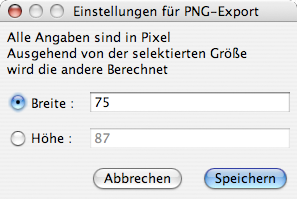
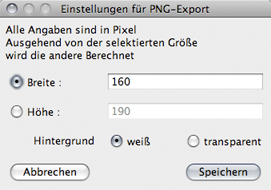
Finished Dialogs and Exports in Gravel Help
Think about how to put in the tutorials,
despite that only mathematical definitions
are missing.

diff --git a/workspace/Gravel/data/help/de/export_tex.html b/workspace/Gravel/data/help/de/export_tex.html
@@ -1,75 +1,43 @@
 <!DOCTYPE html PUBLIC "-//W3C//DTD HTML 4.01 Transitional//EN"
    "http://www.w3.org/TR/html4/loose.dtd">
-
-<html lang="en">
+<html lang="de">
 <head>
 	<meta http-equiv="Content-Type" content="text/html; charset=utf-8">
-	<title>Gravel - Hilfe - Export - LaTeX-<tt><code>picture</code></tt>-Umgebung</title>
+    <link rel="stylesheet" type="text/css" href="format.css" />  
+	<title>Gravel - Hilfe - Export: Portable Network Graphics</title>
 </head>
-<body>
-<div align=center><a name="title"><h2>Export<br>LaTeX-<tt><code>picture</code></tt>-Umgebung</h2></a><br><a name="Abb1"><img src="img/export_tex.png"></a><br><font size="-1">Abbildung 1: Einstellungen des LaTeX-Exports nach Wahl einer Datei</div>
-<br><br>
-<p><a name="abs1">Eine</a> weitere Möglichkeit, den erstellten Graphen zu exportieren, ist der LaTeX-Export.
-Zunächst wird dabei die Größe der entstehenden Grafik festgelegt. Dabei wird wie bei dem <a href="export_png.html">Export als Pixelgrafik</a> das Seitenverhältnis der vom Graphen benötigten Fläche als Grundlage verwendet. Es wird dann entweder die Höhe oder die Breite im Dialog explizit angegeben. Die Angabe ist in Millimetern. <br>
-Eine weitere Option bietet die Möglichkeit, den Graphen entweder eingebettet in ein komplettes (minimal zusammengestelltes) LaTeX-Dokument einzubetten, oder ausschließlich die notwendige <tt><code>figure</code></tt> in der .tex-Datei zu erstellen. Im zweiten Fall kann dann mit Hilfe des <tt><code>\include</code></tt>-Befehls die Grafik direkt in das eigene Dokument eingebunden werden. Dadurch kann auch zu einem späteren Zeitpunkt der Graph neu in die Datei exportiert werden, ohne dass man an dem restlichen Dokument, in dem er integriert ist, weitere Änderungsnotwenigkeiten entstehen.<br>
-Das Programm erstellt eine Vektorgrafik basierend auf der <tt><code>picture</code></tt>-Umgebung von LaTeX und
-deren Erweiterungspakete <tt><code>epic.sty</code></tt><sup>1</sup> und <tt><code>eepic.sty</code></tt><sup>2</sup>, die bis auf die Farbinformationen alle Eigenschaften des Graphen berücksichtigt.
-Diese beiden Pakete müssen entweder der Datei im gleichen Verzeichnis bereitgestellt werden oder dem LaTeX-Compiler bekannt sein. Weitere Pakete sind nicht notwendig.<br>
-<a name="abs2">In der exportierten</a> Datei ist das Bild eingebettet in eine minimale Dokument-Definition, so dass sich die Grafik betrachten lässt.
-Aufgrund interner Befehle der beiden Pakete ist das Kompilieren der Datei nicht mit <tt><code>pdflatex</code></tt> möglich. 
-Stattdessen muss für ein PDF-Dokument zunächst mit dem normalen LaTeX-Compiler ein DVI-Dokument erstellt und dieses über Postskript in ein PDF umgewandelt werden.<br>
-Die meisten LaTeX-Editoren erkennen Pakete, bei denen dieser Weg notwendig ist. Alternativ läßt sich dies auf der Konsole mit diesen 3 Befehlen realisieren:<br><br>
-<pre><code>latex beispiel.tex && dvips beispiel.dvi -o beispiel.ps && ps2pdf beispiel.ps</code></pre><br>
-<a name="abs3">Die Größe</a> eines exportierten Graphen wird durch den direkt vor der <tt><code>picture</code></tt>-Umgebung stehenden Befehl <tt><code>\setlength\{unitlength{Maßeinheit}</code></tt>.
-Dieser gibt an, wie viele Millimeter auf dem Papier einem Punkt (pt) in der Grafik entsprechen. In der Grafik sind alle Maßangaben in pt, bis auf die Schriftgröße. Diese Angaben in pt sind dabei identisch mit den Pixelangaben des Graphen bei einem Maßstab von 100%.<br>
-Durch eine nachträgliche manuelle Änderung der Größe (durch Variation der <tt><code>unitlength</code></tt>) ist das Ergebnis nicht mehr identisch mit dem Original. Der Graph ändert seine Größe, jedoch bleibt die Schrift in ihrer alten Größe erhalten und verschiebt sich somit ebenso relativ zum veränderten Graphen. Stattdessen ist es empfehlenswert, den Graphen in der gewünschten Größe erneut zu exportieren.</p>
-<br><br>
-<b>Aufbau der Grafik</b><br>
-<p>In den Angaben innerhalb der Grafik wird, wie bei dem Export als Pixelgrafik, der ungenutzte Rand herausgerechnet.<br>
-Bei den Koordinatenangaben innerhalb der Grafik ist die vertikale Achse invertiert. Sie beginnt also am unteren Rand mit dem Wert 0 und endet mit der Höhe der Grafik am oberen Rand.</p>
-<p><a name="abs4">Betrachtet</a> man die entstandene Datei, so folgt diese einer festgelegten Struktur:<br>
-Zunächst wird nacheinander jede Kante gezeichnet. Dabei findet ausschließlich der Befehl <tt><code>\path</code></tt> Verwendung.
-Erst wird die Kante in ihrer eigentlichen Form erstellt. Hat die Kante eine Breite, die echt größer als 1 ist, so folgt danach eine mehrfach verschobene Zeichnung der Kante in dickerer Strichstärke. Dies ermöglicht die Darstellung aller Kantendicken. Ohne mehrfaches Zeichnen wären lediglich zwei unterschiedliche Kantenbreiten möglich.<br>
-Abschließend wird der Pfeil gezeichnet.<br>
-Sowohl die Kantenbreite als auch der Pfeil können im Code etwas Platz einnehmen. Bei einer gebogenen Kante etwa wird diese durch kurze gerade Linien angenähert. Der Pfeil benötigt einige Befehle, da kein direkter Befehl zum Ausfüllen eines Bereiches existiert.</p>
-<p><a name="abs5">Dann</a> folgen nacheinander die Knoten.
-Diese werden durch einen Kreis am Knotenmittelpunkt gezeichnet. Der Befehl <tt><code>\put</code></tt> setzt den mit <tt><code>\circle*{groesse}</code></tt> erzeugten gefüllten Punkt an die entsprechende Stelle.<br>
-Dahinter wird mit dem ersten Befehl ebenso der Text platziert. Dieser wird in einer rahmenlosen Box dargestellt und mit <tt><code>\fontsize{5.0mm}{10pt}\selectfont $Knotenname$</code></tt> erzeugt. Die Angabe in Millimetern bestimmt dabei die entsprechende Größe des Textes. Der Knotenname wird in einer mathematischen Umgebung dargestellt.</p>
-<br><br>
-<a name="abs6"><b>Anordnung der Graphen</b></a><br>
-<p>Nach dem Erstellen mehrerer Graphen lassen sich diese in einer Abbildung nebeneinander darstellen, indem man die <tt><code>minipage</code></tt>-Umgebung verwendet. Im folgenden Anwendungsfall werden 2 Graphen nebeneinander platziert.
-In Zeile 5 und Zeile 11 sind die Graphen einzufügen. Diese umfassen die gesamte <tt><code>picture</code></tt>-Umgebung und den direkt davor stehenden Befehl <tt><code>\setlength{\unitlength{Maßeinheit\}</code></tt>.<br>
-Die beim Exportieren gewählte Breite der Graphen ist in den Zeilen 4 und 10 einzutragen. Um zwischen beiden Graphen einen Freiraum zu erhalten, setzt man die beiden Breiten im Quellcode entsprechend größer.
-<br>Die gegebenen <tt><code>\vspace</code></tt>-Befehle ermöglichen eine Einstellung des Abstandes zum Text oberhalb bzw. unterhalb der Abbildung (Zeile 2 bzw. 19). Außerdem sind in Zeile 8 und 14 Untertitel für die einzelnen Graphen möglich.<br>
-<pre><code>
-1 \begin{figure}[htbp]
-2 	\vspace{0pt}% Abstand zum Text darueber
-3 	\centering
-4 	\begin{minipage}{6 cm}
-5 		%
-6 		%Quellcode des ersten Graphen hier einfuegen
-7 		%		
-8 		\centering\mbox{Untertitel Graph 1}
-9 	\end{minipage}
-10 	\begin{minipage}{6 cm}
-11 		%
-12 		%Quellcode des zweiten Graphen hier einfuegen
-13 		%
-14 		\centering\mbox{Untertitel Graph 2}
-15 	\end{minipage}
-16 	\vspace{0pt} %Abstand beider Graphen zur Abbildungsunterschrift
-17 	\caption{Abbildungsunterschrift}
-18 	\label{graphgrouplabel}
-19 	\vspace{0pt} %Abstand Abbildungsschrift zum Text danach
-20 \end{figure}
-</code></pre>
-<br><br>In Abbildung 2 wurden zwei Graphen mit einer Breite von jeweils 60 Millimeter exportiert und in den Quellcode eingefügt.
-Dies lässt sich für mehrere nebeneinander angeordnete Graphen analog fortführen. Die Abbildung ist ein Bild aus einem PDF-Dokument, so dass die Maße in dieser Hilfe nicht korrekt dargestellt werden.<br>  
-<div align=center><a name="Abb2"><img src="img/export_tex_example.png"></a><br><font size="-1">Abbildung 2: Beispiel des Exports zweier Graphen nebeneinander</div>
-<br><br>
-<hr>
-<sup>1</sup> Version 1.2 vom 14 Juli 1986 von Sunil Podar<br>
-<br>
-<sup>2</sup> Version 1.1b vom 7. Februar 1988 von Conrad Kwok<br>
+<h2><a name="title">Export - Portable Network Graphics</a></h2></a>
+<div class="imagebox"><img src="img/export_tex.png"></a><br><font size="-1">Abbildung 1: Einstellungen des LaTeX-Exports nach Wahl einer Datei.</div>
+	<p>Der Export zu LaTeX ist für die Weiterverndung in wissenschaftlichen Ausarbeitungen wichtig. Dabei werden zwei verschiedene Formate bereitgestellt, je nach Anforderungen und Wünschen des Benutzers. Nach Wahl einer Datei gelangt man zu dem Dialog wie in Abbildung 1.</p>
+	
+	Das Programm erstellt eine Vektorgrafik basierend auf der <tt><code>picture</code></tt>-Umgebung von LaTeX und
+	deren Erweiterungspakete <tt><code>epic.sty</code></tt><sup>1</sup> und <tt><code>eepic.sty</code></tt><sup>2</sup>, die bis auf die Farbinformationen alle Eigenschaften des Graphen berücksichtigt.
+	Diese beiden Pakete müssen entweder der Datei im gleichen Verzeichnis bereitgestellt werden oder dem LaTeX-Compiler bekannt sein. Weitere Pakete sind nicht notwendig.<br>
+
+<h3><name="einstellungen">Einstellungen des Exportes</a></h3>
+<p>Zur genaueren Angabe ist zunächst die Originalgröße des Graphen im Editor (bei 100%) nochmals genannt. Dessen Größe für den Export läßt sich nun über einen der drei Parameter
+<ul>
+	<li>Breite</li>
+	<li>Höhe</li>
+	<li>Auflösung</li>
+</ul>
+angeben. Die jeweils verbleibenden beiden werden aus diesem einen Wert ausgerechnet. Breite und Höhe eignen sich gut, wenn man in dem LaTeX-Dokument recht genau weiß, wie viel Platz die Grafik einnehmen soll. Die Auflösung hingegen ermöglicht einen Export mehrerer Grafiken in der gleichen Strichstärke/Textgröße etc., so man bei allen Exporten die gleiche Auflösung einstellt.</p>
+<p>Die darauffolgenden Einstellungen ermöglichen, entweder einen Export als gesamtes Dokument oder nur der <tt>figure</tt>-Umgebung. Das erste eignet sich, um auszuprobieren, wie der Export an sich einmal aussieht. Das Minimaldokument enthält dann alle notwendigen Angaben und kann alleine mit LaTeX kompiliert werden. Die <tt>figure</tt>-Umgebung eignet sich gut zum Einbinden in andere Dokumente. Dazu verwendet man den <tt>\input</tt>-Befehl von LaTeX. So kann mit der Zeit die Abbildung erneut erzeugt/exportiert werden, ohne dass man das LaTeX-Dokument erneut zusammen kopieren muss. Die <tt>figure</tt>-Umgebung enthält dabei auch bereits eine Bildunterschrift.</p>
+<p>Die Angabe der Export-Art wird in den folgenden beiden Abschnitten beschrieben. Zunächst der Export in ein TeX-picture, dann derjenige nach TikZ.
+<h3>Details zur <tt>picture-</tt>Umgebung</h3>
+<p>Die Pakete <tt>epic.sty</tt><sup>1</sup> und <tt>eepic.sty</tt><sup>2</sup> ermöglichen es, in der <tt>picture</tt>-Umgebug von LaTeX Vektordarstellungen zu erzeugen. Über diese Variante ist der Export organisiert. Zum Kompilieren benötigt man dann entweder <tt>latex</tt> oder das neuere <tt>pdflatex</tt>, das jedoch im dvi-Modus. Das bedeutet, dass einige neuere Pakete nicht mehr funktionieren. Außerdem sind in diesem Export keine Farben möglich, so dass diese ignoriert werden.</p>
+<p>Die Beschriftungen werden skaliert, so dass sie annähernd denen in Gravel entsprechen. Leichte Unterschiede sind vorhanden, da sich die Schriftarten (von LateX gegenüber der Java Graphcis-Darstellung) unterscheiden. Ein nachträgliches Skalieren der Grafik durch eine Veränderung des zu begin stehenden Befehls <tt>\setlength{\unithlength}{...}</tt> ist eine Möglichkeit, im Nachhinein die Größe der Grafik zu verändern, die Schriften skalieren jedoch nicht mit.</p>
+
+<h3><a name="tikz">Details zum Export in eine TikZ-Grafik</a></h3>
+<p>Der Export in eine Grafik basierend auf dem Paket TikZ<sup>3</sup> bietet zwei wesentliche Vorteile: Es kann sowohl <tt>pdflatex</tt> als auch <tt>latex</tt> (bzw. <tt>pdflatex</tt> im dvi-modus) zum kompilieren genutzt werden und der TikZ-Export unterstützt Farben. Die Beschriftungen werden nicht mit skaliert, sondern an die normale Textgröße im Dokument angepasst. Das bietet den Vorteil, dass ein einheitlicheres Schriftbild im Dokument vorherrscht. Nachteil ist hingegen, dass dadurch der Unterschied zur Darstellung im Editor recht groß sein kann.</p>
+<p>Die Farben der Untergraphen, aus denen die Farben der Knoten und Kanten bzw. Hyperkanten erzeugt werden, sind zu beginn des Dokumentes definiert. So kann auch im Nachhinein an diesen Farben eine Veränderung vorgenommen werden. In der Grafik selbst werden die Farben dann für die einzelnen Knoten „zusammengemischt“. Ebenso sind die Linienstile recht einfach in den Elementen erzeugt. Da die Elemente des Graphen in diesem Export ausführlich kommentiert erzeugt werden, ist also auch hier eine nachträgliche Änderung möglich.</p>
+<p>Ein nachträgliches Skalieren der Grafik ist möglich, indem hinter <tt>\begin{tikzpicture}</tt> ein Skalierungsfaktor angegeben wird, etwa <tt>\begin{tikzpicture}[scale=0.5]</tt>, um die Grafik in ihrer Größe zu halbieren.
+<div class="notes">
+	<sup>1</sup> Version 1.2 vom 14 Juli 1986 von Sunil Podar<br>
+	<br>
+	<sup>2</sup> Version 1.1b vom 7. Februar 1988 von Conrad Kwok<br>
+	<br>
+	<sup>3</sup> Version 2.0 vom 13. Februar 2008 von Till Tantau<br>
+</div>
 </body>
 </html>

diff --git a/workspace/Gravel/data/help/de/dialog_shape.html b/workspace/Gravel/data/help/de/dialog_shape.html
@@ -8,7 +8,49 @@
 </head>
 <body>
 <h2>Dialog: Der Umriss einer Hyperkante</h2>
-<a name="prrof">Überprüfen</a>
-<a name="convexhull">konvexe Hülle</a>.
+<p>Der Umriss einer Hyperkante wird in zwei Schritten erzeugt: Zunächst wird eine Grundform erstell, die dann modifiziert werden kann. Wird der Dialog für den Umriss mit einer Hyperkante aufgerufen, die bereits einen Umriss hat, so beginnt gleich die Modifikation.</p>
+<p>Beide Modi haben drei gemeinsame Buttons: <a name="proof">„Prüfen“</a> zur Validierung des Umrisses sowie „Abrechen“ und „Ok“ zum Verwerfen bzw. Übernehmen des aktuellen Umrisses. Zum übernehmen muss ein nichtleerer Umriss existieren. In der Darstellung werden alle bisherigen Hyperkantenumrisse sowie alle nicht zur aktuellen Hyperkante gehörenden Knoten kaum sichtbar gezeichnet, außer, wenn Knoten nach dem Prüfen im Umriss liegen. Anstelle der Liste auf der rechten Seite werden Parameter eingeblendet.</p>
+
+<h3>Erzeugen eines Umrisses</h3>
+<div class="imagebox"><a name="Abb1"></a><img src="img/dialog_shape_creation.png"><br><font size="-1">Abbildung 1: Erzeugen eines Umrisses<br>Hier mit der Grundform des Kreises</font></div>
+<p>Das Erzeugen eines Umrisses ist der erste Schritt zu einem Umriss. Dieser Modus wird auch verwendet, wenn ein Teil des Umrisses ersetzt werden soll, dann steht allerdings lediglich die Interpolation zur Verfügung und deren Grad ist durch den bisherigen Umriss gegeben. Für die drei Grundformen gibt es jeweils verschiedene Parameter, um die Erzeugung zu beeinflussen: 
+<dl>
+	<dt>Kreis</dt><dd>Hierbei wird der Polynomgrad auf 4 festgelegt. Dann kann durch Angabe eines Mittelpunktes und eines Radius der Kreis angegeben werden. Alternativ kann er auch mit der Maus aufgezogen werden, die Felder auf der rechten Seite werden dann mit den entsprechenden Werten gefüllt.</dd>
+	<dt>Interpolation</dt><dd>Neben dem Polynomgrad kann noch spezifiziert werden, wo neu erzeugte Punkte im Vektor der Interpolationspunkte eingefügt werden sollen, am Ende oder zwischen den zwei aufeinanderfolgenden Interpolationspunkten, bei denen der neue Punkt am nächsten an der Verbindungsstrecke dran liegt. Jeder linke Mausklick fügt einen neuen Punkt ein, ein Rechtsklick auf einen Punkt entfernt diesen.</dd>
+	<dt><a name="convex hull">konvexe Hülle</a></dt><dd>Hier ist lediglich der Polynomgrad notwendig, basierend auf den Knotenpositionen, dem Innenabstand und diesem Grad wird dann der Umriss berechnet.</dd>
+</dl>
+</p>
+<p>Mit dem Button „Modifikation“ gelangt man in den zweiten Modus zur Modifikation des erstellten Umrisses.</p>
+
+<h3>Modifizieren eines Umrisses</h3>
+<div class="imagebox"><a name="Abb2"></a><img src="img/dialog_shape_modification.png"><br><font size="-1">Abbildung 2: Modifikation eines Umrisses<br>Hier wurde der erzeugte kreis zu einer Ellipse verformt.</font></div>
+<p>Da es in diesem Modus sehr viele Buttons gibt, schauen wir uns die einmal kurz alle einzeln an:
+<dl>
+	<dt>global und lokal </dt><dd> Mit diesem Optionsfeld wechselt man zwischen dem globalen und dem lokalen Bearbeitungsmodus. Im globalen Modus werden die Aktionen auf den gesamten Umriss angewandt. Im lokalen Modus muss zunächst ein Bereich des Umrisses gewählt werden, alle Modifikationen wirken dann nur auf diesem Bereich.</dd>
+	<dt>+</dt><dd> Dieser Button ist nur im globalen Modus verfügbar. Er schaltet die Anzeige des Knotenvektors an; es werden dann die Positionen auf der Kurve angezeigt, an denen die Knoten auf der Kurve liegen. Durch anklicken der Kurve wird an der Stelle ein Knoten eingefügt.</dd>
+	<dt>-</dt><dd> Analog zum „+“-Button wird hier der Modus zum Entfernen von Knoten aktiviert. Kann ein Knoten nicht entfernt werden, passiert nichts, andernfalls wird er entfernt. Dabei kann sich die Kurve (unter Umständen sogar stark) verändern. Man kann jedoch jede Aktion stets rückgängig machen.</dd>
+</dl>
+</p>
+<p>Jede der folgenden Aktionen verläuft durch Ziehen, wobei der Ursprungspunkt $p$ des Ziehens und der Richtungsvektor $v$ vom Ursprung zur aktuellen Mausposition jeweils in der Berechnung verwendet werden:
+<dl>
+	<dt><img src="img/icons/rotate32.png" class="icon"></dt><dd class="icon"> Rotiert den Umriss (bzw. den lokalen Bereich) um den Punkt $p$ und zwar um den Winkel, der zwischen der positiven $X-$Achse im Uhrzeigersinn zur Richtung $v$ vorliegt. $v$ wird dabei auch eingezeichnet, um dies zu verdeutlichen.</dd>
+	<dt><img src="img/icons/scale32.png" class="icon"></dt><dd class="icon">Skalieren der Kurve (bzw. des lokalen Bereichs) mit dem Fixpunkt $p$. Die Skalierung ergibt sich aus dem Verhältnis von $v$ zur Größe der ursprünglichen Kurve. Ist also $v$ nahe der Kurve, ergibt sich etwa ein Faktor von $1$. Die Richtung wird dabei ignoriert.</dd>
+	<dt><img src="img/icons/scaledir32.png" class="icon"></dt><dd class="icon">Skalieren mit Richtung. Verläuft analog zur Skalierung (dem vorherigen Icon), nur dass lediglich in Richtung $v$ skaliert wird. Die Richtung orthogonal zu $v$ bleibt unverändert. So können beispielsweise aus Kreisen Ellipsen geformt werden.</dd>
+	<dt><img src="img/icons/translate32.png" class="icon"></dt><dd class="icon">Verschieben. Der Umriss (bzw. der lokale Bereich) wird um $v$ verschoben.</dd>
+</dl></p>
+<p>Ist keiner dieser Modi aktiv, so kann die Kurve verändert werden, indem direkt auf der Kurve mit dem Ziehen begonnen wird, dann wird dieser Punkt an die aktuelle Mausposition verschoben. Aufgrund der lokalen Eigenschaften der NURBS"=Kurven hat dies ebenfalls nur lokalen Einfluss. Im lokalen Modus gibt es drei weitere Icons, die zur Auswahl der Teilkurve dienen: 
+<dl>
+<dt><img src="img/icons/start32.png" class="icon"></dt><dd class="icon"> Setzen des Startpunktes der lokalen Bereichs. Start- und Ende sind nicht direkt unterscheidbar, die Darstellung auf den Icons entspricht folgender Situation:
+	<p>
+Ist die Kurve im Uhrzeigersinn definiert -- also bei der Interpolation die Reihenfolge der Knoten im Uhrzeigersinn gegeben worden, sonst ist das stets der Fall -- so verläuft die Auswahl ebenso im Uhrzeigersinn. Dann entspricht die Darstellung auf dem Startpunkt-Icon der Situation, dass der Startpunkt auf einer horizontalen Linie der oberen Umrisshälfte liegt.</p>
+Jeder Mausklick wird dabei auf die Kurve projiziert und dieser Punkt als neuer Startpunkt verwendet.</dd>
+<dt><img src="img/icons/invert32.png" class="icon"></dt><dd class="icon">Invertieren. Die Punkte Start und Ende werden vertauscht, was in der Auswahl genau des Kurvenanteils resultiert, der vorher nicht der lokale Bereich war.</dd>
+<dt><img src="img/icons/end32.png" class="icon"></dt><dd class="icon">Setzen des Endpunktes. Analog zu den Ausführungen des Startpunktes, nur bezeichnet dies dann das andere Ende des Teilstücks.</dd>
+</dl>
+Ist hier keiner der Modi aktiv, so wird im lokalen Modus bei jedem Klick bzw. Ziehen abwechselnd Start und Ende der Kurve gesetzt. Der Button „neue Grundform“ erstellt eine neue Grundform wie folgt:
+<dl>
+	<dt>im globalen Fall</dt><dd>gelangt man zu dem zurück, was bereits vorgestellt worden ist: Der Erzeugung einer kompletten neuen Grundform.</dd>
+	<dt>im lokalen Fall</dt><dd>wird eine neue Grundform des lokalen Bereichs erzeugt, so dieser existiert und groß genug ist (man benötigt einen gewissen zu ersetzenden Teil). Die Interpolationspunkte definieren dann eine Kurve, die den lokalen Bereich ersetzt und an den Übergängen (Start- und Endpunkt des lokalen Bereichs) wieder stetig ist. Dabei ist der Grad der Kurve bereits gegeben.</dd>
+</dl>
 </body>
 </html>

diff --git a/workspace/Gravel/data/help/de/dialog_node.html b/workspace/Gravel/data/help/de/dialog_node.html
@@ -1,29 +1,26 @@
 <!DOCTYPE html PUBLIC "-//W3C//DTD HTML 4.01 Transitional//EN"
    "http://www.w3.org/TR/html4/loose.dtd">
-
-<html lang="en">
+<html lang="de">
 <head>
 	<meta http-equiv="Content-Type" content="text/html; charset=utf-8">
-	<title>Gravel - Hilfe - Dialoge - Knoten</title>
+    <link rel="stylesheet" type="text/css" href="format.css" />  
+	<title>Gravel - Hilfe - Dialog - Knoten</title>
 </head>
 <body>
-<div align=center><a name="title"><h2>Knotendialog</h2></a></div>
-<br><p>Der Knotendialog ist entweder über das Kontextmenü eines Knotens erreichbar oder über den Eintrag "Neuen Knoten erstellen..." im Kontextmenü des Hintergrundes.<br>
+<h2><a name="title">Dialog: Eigenschaften eines Knotens</a></h2>
+<p>Der Knotendialog ist entweder über das Kontextmenü eines Knotens erreichbar oder über den Eintrag "Neuen Knoten erstellen..." im Kontextmenü des Hintergrundes.<br>
 Im ersten Fall werden die Datenfelder des Dialoges mit den Werten des Knotens initialisiert.
-Beim Erstellen eines neuen Knotens werden die Datenfelder mit den Standard-Werten aus den <a href="dialog_prefs.html">Eigenschaften</a> initialisiert. Als Position wird die aktuelle Position der Maus in dem Graphen verwendet. Als Index wird die erste natürliche Zahl nach dem größten Knotenindex im aktuellen Graphen verwendet.	
-<br><br>
+Beim Erstellen eines neuen Knotens werden die Datenfelder mit den Standard-Werten aus den <a href="dialog_prefs.html">Eigenschaften</a> initialisiert. Als Position wird die aktuelle Position der Maus in dem Graphen verwendet. Als Index wird die erste natürliche Zahl nach dem größten Knotenindex im aktuellen Graphen verwendet.</p>
 <h3>Allgemein</h3>
-<div align=center><br><a name="Abb1"><img src="img/dialog_node_general.png"></a><br><font size="-1">Abbildung 1: Die Registerkarte "Allgemein" des Knotendialogs</font></div>
-<br><p>In der Registerkarte "Allgemein" lassen sich die mathematischen und visuellen Eigenschaften des Knotens verändern.<br>
+<div class="imagebox"><a name="Abb1"><img src="img/dialog_node_general.png"></a><br><font size="-1">Abbildung 1: Die Registerkarte „Allgemein“ des Knotendialogs</font></div>
+<p>In der Registerkarte „Allgemein“ lassen sich die mathematischen und visuellen Eigenschaften des Knotens verändern.<br>
 <a name="math">Zunächst</a> der Name, gefolgt vom Index des Knotens und der Position (in horizontale (X) und vertikale (Y) Komponente getrennt) sowie die Größe des Kreises, den der Knoten in der Darstellung besitzen soll.
 <br>Die <a name="farbe">Farbe</a> des Knotens ergibt sich aus der Zugehörigkeit zu Untergraphen. Eine Liste der Untergraphen befindet sich am unteren Ende dieser Registerkarte und jeder Untergraph ist in dieser Liste klickbar, wodurch der Knoten entweder hinzugefügt oder entfernt wird, je nach vorherigem Zustand. Dann wird die Farbe neu berechnet.</p> 
-<br><br>
 <h3>Ansicht</h3><br>
-<div align=center><a name="Abb2"><img src="img/dialog_node_view.png"></a><br><font size="-1">Abbildung 2: Die Registerkarte "Ansicht" des Knotendialogs</font></div>
+<div class="imagebox"><a name="Abb2"><img src="img/dialog_node_view.png"></a><br><font size="-1">Abbildung 2: Die Registerkarte „Ansicht“ des Knotendialogs</font></div>
 <br>
-<p><a name="name">Unter</a> "Ansicht" sind die Einstellungen des Knotennamens verfügbar. Dieser läßt sich anzeigen oder nicht. Im zweiten Fall sind die Felder darunter deaktiviert.<br>
+<p><a name="name">Unter</a> „Ansicht“ sind die Einstellungen des Knotennamens verfügbar. Dieser läßt sich anzeigen oder nicht. Im zweiten Fall sind die Felder darunter deaktiviert.<br>
  Ist die Anzeige des Knotennamens aktiviert, so wird seine Position angegeben durch den Abstand von der Position des Knotens und dem Winkel in Grad, wobei 0 Grad der Richtung Osten entspricht. Die Größe des Textes ist ebenso einstellbar.</p>
-<br><br>
 <h3>Validitätsbedingungen</h3>
 <p>Ein Klick auf Abbrechen bricht die aktuelle Aktion ab und der Knoten wird nicht gespeichert.
 <br>Wählt man den Button "Änderungen speichern" bzw. "Knoten erstellen", so darf der gewählte Index noch nicht vergeben sein.<br>Ist die Anzeige des Knotennamens aktiv, so müssen alle 3 Felder in der Registerkarte "Ansicht" mit natürlichen ganzen zahlen gefüllt sein. Dann wird die Aktion abgeschlossen, also der Knoten verändert oder erstellt. Andernfalls erscheint eine Fehlermeldung.</p>  

diff --git a/workspace/Gravel/data/help/de/dialog_subgraph.html b/workspace/Gravel/data/help/de/dialog_subgraph.html
@@ -1,26 +1,20 @@
 <!DOCTYPE html PUBLIC "-//W3C//DTD HTML 4.01 Transitional//EN"
    "http://www.w3.org/TR/html4/loose.dtd">
-
-<html lang="en">
+<html lang="de">
 <head>
 	<meta http-equiv="Content-Type" content="text/html; charset=utf-8">
-	<title>Gravel - Hilfe - Dialoge - Untergraphen</title>
-	<meta name="generator" content="TextMate http://macromates.com/">
-	<meta name="author" content="Ronny">
-	<!-- Date: 2007-10-12 -->
+    <link rel="stylesheet" type="text/css" href="format.css" />  
+	<title>Gravel - Hilfe - Dialog - Untergraph</title>
 </head>
 <body>
-<div align=center><a name=title><h2>Untergraphendialog</h2></a><br>
-<br><a name="Abb1"><img src="img/dialog_subgraph.png"></a><br><font size="-1">Abbildung 1: Erstellen eines Untergraphen</font>
+<h2><a name="title">Dialog: Eigenschaften eines Untergraphen</a></h2>
+<div class="imagebox"><a name="Abb1"><img src="img/dialog_subgraph.png"></a><br><font size="-1">Abbildung 1: Erstellen eines Untergraphen</font>
 </div>
-<br><p><a name="abs1">Der</a> Dialog für einen Untergraphen ist entweder im Kontextmenü des Hintergrundes unter "Neuen Untergraphen" oder in der Liste der Elemente bei den Untergraphen verfügbar. In Abbildung 1 wurde die erste Variante gewählt. Die Eigenschaften eines Untergraphen werden in die Felder eingesetzt, wenn dieser in der Liste gewählt wird.<br>
-Beim Erstellen eines neuen Untergraphen wird ein freier Index gewählt, der Name generiert und eine zufällige, noch nicht vergebene Farbe bei der Initialisierung gewählt.<br>
-Unter diesen Feldern befinden sich zwei Liste. Eine Liste enthält alle Knoten, jeweils aufgelistet mit Name und Index, die andere Liste enthält alle Kanten, die jeweils durch Start- und Endknotenindex dargestellt sind. Diese lassen sich durch anklicken zu einem Untergraphen hinzufügen und entfernen. Die Farbe des Untergraphen wird dann in die Farbe der Kanten und Knoten eingerechnet, die in dem Untergraphen enthalten sind.
-<br><br>
+<p><a name="abs1">Der</a> Dialog für einen Untergraphen ist entweder im Kontextmenü des Hintergrundes unter "Neuen Untergraphen" oder in der Liste der Elemente bei den Untergraphen verfügbar. In Abbildung 1 wurde die erste Variante gewählt. Die Eigenschaften eines Untergraphen werden in die Felder eingesetzt, wenn dieser in der Liste gewählt wird.</p>
+<p>Beim Erstellen eines neuen Untergraphen wird ein freier Index gewählt, der Name generiert und eine zufällige, noch nicht vergebene Farbe bei der Initialisierung gewählt.</p>
+<p>Unter diesen Feldern befinden sich zwei Liste. Eine Liste enthält alle Knoten, jeweils aufgelistet mit Name und Index, die andere Liste enthält alle Kanten, die jeweils durch Start- und Endknotenindex dargestellt sind. Diese lassen sich durch anklicken zu einem Untergraphen hinzufügen und entfernen. Die Farbe des Untergraphen wird dann in die Farbe der Kanten und Knoten eingerechnet, die in dem Untergraphen enthalten sind.</p>
 <h3>Validitätsbedingungen</h3>
-<br>
-<p>Beim Bestätigen des Dialoges (je nach Art des Dialoges "Untergraph erstellen" oder "Änderungen speichern") wird der Untergraph gespeichert, falls folgende Bedingungen erfüllt sind:<br>
-	Der Index darf noch keinem anderen Untergraphen zugeordnet sein, ebenso darf die Farbe noch nicht bei einem anderen Untergraphen verwendet worden sein. Ist dies beides der Fall, wird der Untergraph gespeichert und die Farben der Knoten und Kanten die neu oder nun nicht mehr im Untergraphen sind, werden neu berechnet.</p>
-<br>
+<p>Beim Bestätigen des Dialoges (je nach Art des Dialoges "Untergraph erstellen" oder "Änderungen speichern") wird der Untergraph gespeichert, falls folgende Bedingungen erfüllt sind:</p>
+<p>Der Index darf noch keinem anderen Untergraphen zugeordnet sein, ebenso darf die Farbe noch nicht bei einem anderen Untergraphen verwendet worden sein. Ist dies beides der Fall, wird der Untergraph gespeichert und die Farben der Knoten und Kanten die neu oder nun nicht mehr im Untergraphen sind, werden neu berechnet.</p>
 </body>
 </html>

diff --git a/workspace/Gravel/data/help/de/export_png.html b/workspace/Gravel/data/help/de/export_png.html
@@ -1,20 +1,15 @@
 <!DOCTYPE html PUBLIC "-//W3C//DTD HTML 4.01 Transitional//EN"
    "http://www.w3.org/TR/html4/loose.dtd">
-
-<html lang="en">
+<html lang="de">
 <head>
 	<meta http-equiv="Content-Type" content="text/html; charset=utf-8">
-	<title>Gravel - Hilfe - Export - Portable Network Graphics</title>
-	<meta name="generator" content="TextMate http://macromates.com/">
-	<meta name="author" content="Ronny">
-	<!-- Date: 2007-10-12 -->
+    <link rel="stylesheet" type="text/css" href="format.css" />  
+	<title>Gravel - Hilfe - Export: Portable Network Graphics</title>
 </head>
-<body>
-<div align=center><a name="title"><h2>Export<br>Portable Network Graphics</h2></a><br><a name="Abb1"><img src="img/export_png.png"></a><br><font size="-1">Abbildung 1: Einstellungen des PNG-Exports nach Wahl einer Datei</div>
-<p>Als Export in eine Pixelgrafik bietet Gravel den PNG-Export. Dabei wird eine Grafik im Format <i>Portable Network Graphics</i> erstellt. Dies wird durch Java-interne Bibliotheken ermöglicht. Das Format ist verlustfrei.<br>
-	Nach Wahl einer Datei im Export-Dialog erscheint ein weiteres Fenster (Abbildung 1). Hier lässt sich entweder eine Breite oder eine Höhe des Bildes angeben. Die Angabe ist in Pixel. Der nicht direkt angegebene Wert wird dann durch das Seitenverhältnis des Graphen bestimmt. Für das Seitenverhältnis werden die ungenutzten Ränder der Darstellung entfernt. Es wird lediglich die Fläche verwendet, die der Graph auch wirklich benötigt. Bei der Berechnung werden neben Kanten und Knoten auch Knotennamen und Kontrollpunkte berücksichtigt.<br>
-	Ist die Größe festgelegt, wird der Graph als Bild exportiert. Dabei werden alle Farben bedacht. Die Einstellungen der aktuellen Anzeige werden berücksichtig; Raster und Kontrollpunkte werden ebenfalls exportiert, so diese aktiviert sind. Außerdem ist wie in der Anzeige eine Kantenglättung aktiv, das heißt, dass die Ränder der gezeichneten Objekte geglättet werden. Der Hintergrund wird auf transparent gesetzt.</p>
-<p>Einsatzbereich dieses Exportes sind alle Weiterverwendungen außerhalb von Gravel und <a href="export_tex.htm">LaTeX</a></p>
-
+<h2><a name="title">Export - Portable Network Graphics</a></h2></a>
+<div class="imagebox"><a name="Abb1"><img src="img/export_png.png"></a><br><font size="-1">Abbildung 1: Einstellungen des PNG-Exports nach Wahl einer Datei.</div>
+<p>Als Export in eine Pixelgrafik bietet Gravel den PNG-Export. Dabei wird eine Grafik im Format <i>Portable Network Graphics</i> erstellt. Dies wird durch Java-interne Bibliotheken ermöglicht. Das Format ist verlustfrei.</p>
+<p>Nach Wahl einer Datei im Export-Dialog erscheint ein weiteres Fenster (Abbildung 1). Hier lässt sich entweder eine Breite oder eine Höhe des Bildes angeben. Die Angabe ist in Pixel. Der nicht direkt angegebene Wert wird dann durch das Seitenverhältnis des Graphen bestimmt. Für dieses Seitenverhältnis werden die ungenutzten Ränder der Darstellung entfernt. Es wird lediglich die Fläche verwendet, die der Graph auch wirklich benötigt. Bei der Berechnung werden neben Kanten und Knoten auch Knotennamen und Kontrollpunkte berücksichtigt. Außerdem kann angegeben werden, ob das erzeugte Bild einen weißen oder einen transparenten Hintergrund besitzen soll.</p>
+<p>Ist die Größe festgelegt, wird der Graph als Bild exportiert. Dabei werden alle Farben bedacht. Die Einstellungen der aktuellen Anzeige werden berücksichtig; Raster und Kontrollpunkte werden ebenfalls exportiert, so diese aktiviert sind. Außerdem ist wie in der Anzeige eine Kantenglättung aktiv, das heißt, dass die Ränder der gezeichneten Objekte geglättet werden.</p>
 </body>
 </html>

diff --git a/workspace/Gravel/data/help/de/dialog_prefs.html b/workspace/Gravel/data/help/de/dialog_prefs.html
@@ -26,9 +26,9 @@
 <p>In der Ansicht lässt sich die Ansicht der Kontrollpunkte aktivieren, die bei zwei Kantentypen existieren. Dies ist ebenso über das <a href="menu.html">Menü</a> möglich. Hier gibt es zusätzlich die Möglichkeit, die Größe der Kreuze anzugeben, welche an den Positionen der Kontrollpunkte angezeigt werden. Diese Kontrollpunkte werden im <a href="dialog_shape.html">Dialog zur des Hypekantenumrisses</a> auch zur Anzeige des Kontrollpolygons verwendet.</p>
 <p>Ebenso über das <a href="menu.html">Menü</a> einzeln verfügbar sind die Einstellungen zum Raster. Ist das Raster aktiviert, so lässt sich der vertikale und horizontale Abstand des Rasters festlegen. Die beiden Abstände lassen sich synchronisieren. Außerdem können Knoten am Raster ausgerichtet werden. Dies wirkt sich auf die Bewegung von einzelnen Knoten im Standard-Modus aus. Werden diese bewegt, so werden sie danach am Raster ausgerichtet.<br>Ist das Raster nicht aktiviert, so sind die Einstellungen dazu ebenso deaktiviert und bleiben in dem Zustand, den sie zuletzt besaßen.</p>  
 
-<a name="subgraph"><h3>Graph (und Untergraph)</h3></a>
+<a name="subgraph"><h3>(Hyper-)Graph und Untergraph</h3></a>
 <div class="imagebox"><a name="Abb3"><img src="img/dialog_prefs_graph.png"></a><br><font size="-1">Abbildung 3: Registerkarte „Graph“ der Allgemeinen Einstellungen</font></div>
-<p>Für (Hyper-)graphen lässt sich angeben, welches der Standard sein soll für neue Graphen. Dies bedeutet, dass beim Start ein leerer Graph bzw. Hypergraph mit den dort angegebenen Werten erstellt wird. Bei Start eines Neuen Graphen im Lauf des Programms ist eine Abfrage vorhanden, ob ein Graph oder Hypergraph erstellt werden soll, die Voreinstellung wird dabei ebenso von dieser Einstellung abhängig gemacht. Für Graphen lassen sich die Standardwerte festlegen: Geichtet oder ungerichtet, Zulassen von Schleifen und/oder Mehrfachkanten.</p>
+<p>Für (Hyper-)graphen lässt sich angeben, welcher der beiden Typen der Standard ist. Dieser wird verwendet beim Start des Programms mit einem leeren Graphen bzw. Hypergrapen. Zusätzlich bildet er die Standardauswahl im Dialog zu einem neuen (Hyper-)Graphen. Für Graphen lassen sich weitere Standardwerte festlegen: Gerichtet oder ungerichtet, Zulassen von Schleifen und/oder Mehrfachkanten.</p>
 <p>Untergraphen sind nur bezüglich ihres Namens in den Standardwerten vertreten. Dessen angegebener Wert wird analog zu dem <a href="#nodename">Knotennamen</a> verwendet.</p>
 <a name="node"><h3>Knoten</h3></a>
 <div align=center><a name="Abb4"><img src="img/dialog_prefs_node.png"></a><br><font size="-1">Abbildung 4: Die Registerkarte "Knoten" der Einstellungen enthält Standardwerte für Knoten</font></div>

diff --git a/workspace/Gravel/data/help/de/export.html b/workspace/Gravel/data/help/de/export.html
@@ -1,18 +1,18 @@
 <!DOCTYPE html PUBLIC "-//W3C//DTD HTML 4.01 Transitional//EN"
    "http://www.w3.org/TR/html4/loose.dtd">
-
-<html lang="en">
+<html lang="de">
 <head>
 	<meta http-equiv="Content-Type" content="text/html; charset=utf-8">
+    <link rel="stylesheet" type="text/css" href="format.css" />  
 	<title>Gravel - Hilfe - Export</title>
 </head>
-<body>
-<div align=center><a name="title"><h2>Export</h2></a></div>
-<p>Der Export stellt Methoden für Dateiformate zur Verfügung, um den erstellten Graphen außerhalb von Gravel weiter zu verwenden. Dabei wird zunächst eine Datei über den entsprechenden <a href="dialog_file.html">Dialog</a> abgefragt. Anschließend werden die dem Export-Format entsprechenden Werte abgefragt.</p>
-Bisher existieren die folgenden Exporte:
-<ul>
-	<li><a href="export_png.html">Portable Network Graphics</a></li>
-	<li><a href="export_tex.html">LaTeX-Picture-Umgebung</a></li>
-</ul> 
+<h2><a name="title">Export</a></h2>
+<p>Der Export stellt Methoden für Dateiformate zur Verfügung, um den erstellten Graphen außerhalb von Gravel weiter zu verwenden. Dabei wird zunächst eine Datei über einen Dialog eine Datei ausgewählt bzw. ein neuer Dateiname angegeben. Wird kein Suffix vergeben, so wird derjenige des Entsprechenden Exportes angefügt. Stimmt das Datei-Suffix nicht mit dem üblichen Suffix des Exportes überein, wird eine Warnung ausgegeben.</p>
+<p>Anschließen wird je nach gewähltem Export nach einigen spezifischen Werten gefragt. Folgende Exporte stehen zur Verfügung:</p>
+<dl>
+	<dt>Portable Network Graphics (png)</dt><dd>Ein sehr verbreitetes Grafikformat, das vor allem bei technischen Zeichnungen bessere Kompression und Darstellung bietet als JPEG. <a href="export_png.html">zu den Einstellungen</a></dd>
+	<dt>LaTeX-Export (tex)</dt><dd> Der Export für eine Verwendung in LaTeX ist sowohl für ältere Systeme per <tt>epic/eepic</tt> möglich, aber auch als TikZ-Export für neuere LaTeX-Dokumente. Der zweite Export unterstützt zusätzlich farbige Darstellungen. <a href="export_tex.html">zu den Details</a></dd>
+	<dt>Scalable Vector Graphics (svg)</dt><dd>Das offene Format SVG wird von einigen Browsern unterstützt und stellt den üblichen Export zu einem allgemeinen Vektorformat zur Verfügung. <a href="export_svg.html">mehr Details</a></dd>
+</dl>
 </body>
 </html>

diff --git a/workspace/Gravel/data/help/de/export_svg.html b/workspace/Gravel/data/help/de/export_svg.html
@@ -1,0 +1,14 @@
+<!DOCTYPE html PUBLIC "-//W3C//DTD HTML 4.01 Transitional//EN"
+   "http://www.w3.org/TR/html4/loose.dtd">
+<html lang="de">
+<head>
+	<meta http-equiv="Content-Type" content="text/html; charset=utf-8">
+    <link rel="stylesheet" type="text/css" href="format.css" />  
+	<title>Gravel - Hilfe - Export: Scalable Vector Graphics</title>
+</head>
+<h2><a name="title">Export - Scalable Vector Graphics</a></h2></a>
+<div class="imagebox"><a name="Abb1"><img src="img/export_svg.png"></a><br><font size="-1">Abbildung 1: Einstellungen des SVG-Exports nach Wahl einer Datei.</div>
+<p>Als Export in eine allgemeine Vektorgrafik bietet Gravel den SVG-Export. Dieses Format ist offen und somit spezifiziert in einem frei verfügbaren Standard, Es läßt sich von vielen heutigen Webbrowser darstellen und einfach erzeugen..</p>
+<p>Nach Wahl einer Datei im Export-Dialog erscheint ein weiteres Fenster (Abbildung 1). Hier lässt sich entweder eine Breite oder eine Höhe des Bildes angeben. Die Angabe ist in Pixel, die das spätere Bild in Originalauflösung angibt. Die Angabe dient also lediglich der Anzeige und wird auf dessen Basis als Genauigkeitsmaß in der Vektorerzeugung verwendet. Dies kann dazu führen, dass eine relativ klein exportierte vektorgrafik bei sehr großer Vergrößerung in den Kurven eckige Pfade enthält. Bei dem Export werden alle Elemente des Graphen inklusive ihrer Farben berücksichtig. Anzeigeelemente, wie das Raster werden nicht exportiert.</p>
+</body>
+</html>

diff --git a/workspace/Gravel/data/help/de/dialog_edge.html b/workspace/Gravel/data/help/de/dialog_edge.html
@@ -33,8 +33,13 @@
 <h3>Kantentyp</h3>
 <div align=center><a name="Abb3"><img src="img/dialog_edge_type.png"></a><br><font size="-1">Abbildung 3: Die Registerkarte "Kantentyp" des Kantendialogs</font></div>
 <br>
-<p>Die Registerkarte <a name="kantentyp">"Kantentyp"</a> bietet die Möglichkeit, den Typ der Kante zu verändern. Neben der direkten Verbindung der beiden Knoten existieren die vier Typen, die in der <a href="definitions.html#vis">Definition</a> vorgestellt werden.<br>
-Die quadratische Kurve benötigt den Beziér-Punkt, eine segmentierte Kante mindestens einen Wegpunkt und die orthogonale Kante besitzt 2 Möglichkeiten, entweder vertikal oder horizontal am Startknoten anzusetzen. </p>
+<p>Die Registerkarte <a name="kantentyp">"Kantentyp"</a> bietet die Möglichkeit, den Typ der Kante zu verändern. Neben der direkten Verbindung der beiden Knoten existieren die vier Typen
+<ul>
+	<li> gerade - eine direkte Strecke zwischen Den Knoten</li>
+	<li> gebogen - eine quadratische Bézier-Kurve, die einen Kontrollpunkt benötigt</li>
+	<li> segmentiert - unterteilt in mehrere Strecken zwischen den Kontrollpunkten</li>
+	<li> orthogonal - eine Darstellung aus zwei Linien, eine horizontal, eine vertikal, welche zuerst verwendet wird, bestimmt eine Einstellung</li>
+</ul>
 <br>
 <h3>Pfeil</h3>
 <div align=center><a name="Abb4"><img src="img/dialog_edge_arrow.png"></a><br><font size="-1">Abbildung 4: Die Registerkarte "Pfeil" des Kantendialogs</div>

diff --git a/workspace/Gravel/data/help/de/mainwindow.html b/workspace/Gravel/data/help/de/mainwindow.html
@@ -21,7 +21,7 @@ Diese Bereiche werden nun nacheinander vorgestellt.
 <p>Der Berech der Darstellung ist beim ersten Start komplett weiß, denn es wird ein leerer Graph dargestellt. Später kann hier beim Starten ebenso das Raster aktiv sein oder ein Graph geladen werden. In diesem Bereich lassen sich mit <a href="mouseactions.html">Mausaktionen</a> die Elemente des Graphen erzeugen und viele ihrer Eigenschaften verändern. Dies betrifft auch mit der Maus ausgewählte Teile des Graphen, also eine Auswahl an Elementen, die farblich hervorgehoben wird, wie in in Abbildung 1 dargestellt.</p>
 <div class="imagebox">
 	<a name="Abb1"><img src="img/selection.png"></a><br>
-	<font size=-1>Abbildung 1: Eine Selektion</font>
+	<font size=-1>Abbildung 1: Eine Auswahl von Knoten und Kanten (blau hinterlegt)</font>
 </div>
 <a name="toolbar"><h3>Toolbar</h3></a>
 <div class="imagebox">

diff --git a/workspace/Gravel/data/help/de/format.css b/workspace/Gravel/data/help/de/format.css
@@ -41,7 +41,23 @@ li
 	padding-bottom:2px;
 	padding-left:-2px;
 }
-
+dl
+{
+	padding-top:10px;
+	padding-bottom:10px;
+}
+dt {
+	color:#000066;
+	font-weight:bold;
+	padding-right:10px;
+	padding-top:10px;
+	list-style-position::inside;
+}
+dd.icon{
+	padding-top:-32px;
+	
+	margin-left:40px;
+}
 .imagebox{
 	width:100%;
 	text-align:center;

diff --git a/workspace/Gravel/data/help/de/dialog.html b/workspace/Gravel/data/help/de/dialog.html
@@ -4,7 +4,7 @@
 <head>
 	<meta http-equiv="Content-Type" content="text/html; charset=utf-8">
     <link rel="stylesheet" type="text/css" href="format.css" />  
-	<title>Gravel - Hilfe - Kontextmenüs</title>
+	<title>Gravel - Hilfe - Dialoge</title>
 </head>
 <body>
 <h2><a name="dia">Dialoge</a></h2>
